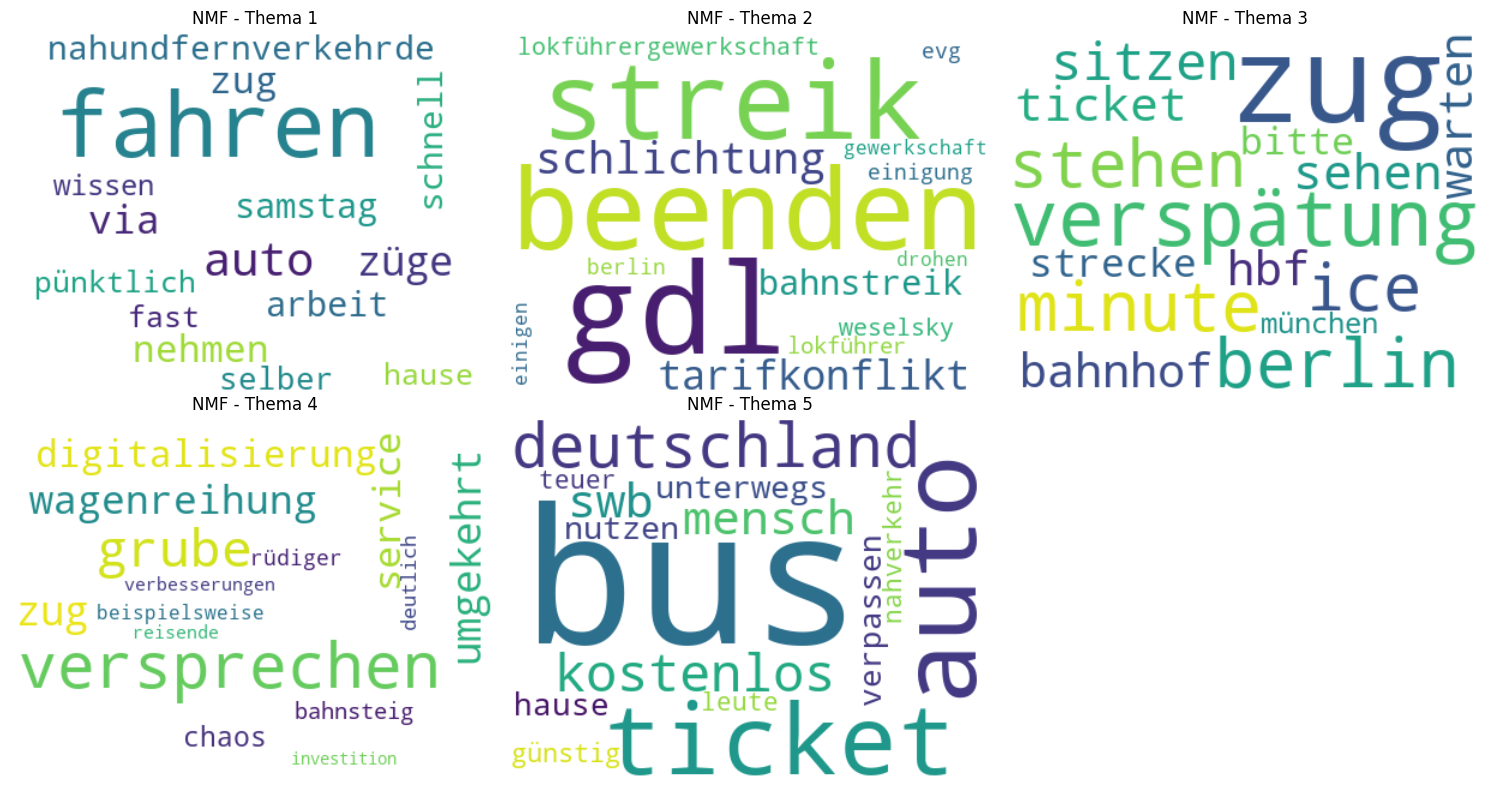
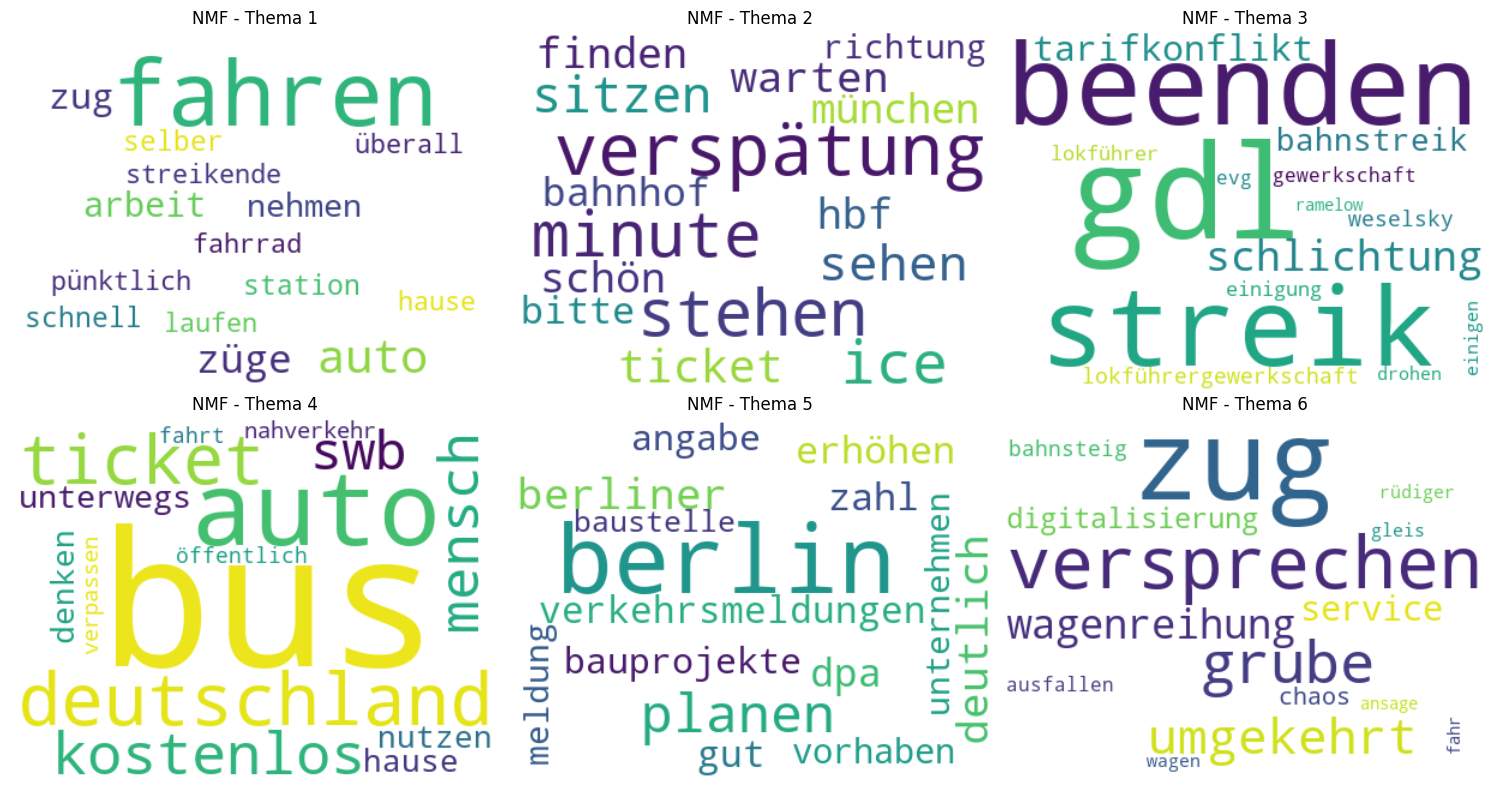
Coherence Plot und Speicherfunktion

Changed region(s): [[0.0, 0.0312, 1.0, 0.9688], [0.0, 0.0312, 0.3067, 0.5], [0.92, 0.5938, 0.9813, 0.625]]

diff --git a/src/find_n_topics.py b/src/find_n_topics.py
@@ -1,4 +1,5 @@
 import matplotlib.pyplot as plt
+import os
 from sklearn.decomposition import NMF
 from gensim.corpora import Dictionary
 from gensim.models import CoherenceModel
@@ -7,11 +8,13 @@ from data_loader import load_data
 from preprocessing import clean_corpus
 from vectorization import build_tfidf
 
+# Ergebnis-Ordner (relativ zum Projekt, funktioniert von jedem cwd aus)
+BASE_DIR = os.path.dirname(os.path.dirname(os.path.abspath(__file__)))
+RESULTS_DIR = os.path.join(BASE_DIR, "results")
 
 
 # Ellbogen Methode - Zeichnet den NMF-Rekonstruktionsfehler für verschiedene Werte der Themenanzahl (k)
 def plot_elbow(tfidf_matrix, k_min=2, k_max=10):
-    """Zeichnet den NMF-Rekonstruktionsfehler für verschiedene Themenzahlen."""
     ks = []
     errors = []
     for k in range(k_min, k_max + 1):
@@ -20,20 +23,20 @@ def plot_elbow(tfidf_matrix, k_min=2, k_max=10):
         ks.append(k)
         errors.append(model.reconstruction_err_)
 
+    plt.figure()
     plt.plot(ks, errors, marker="o")
     plt.xlabel("Anzahl Themen (k)")
     plt.ylabel("Rekonstruktionsfehler (kleiner = besser)")
     plt.title("Ellbogen-Methode (NMF)")
-    plt.savefig("results/ellbogen.png")
-    plt.show()    
+    os.makedirs(RESULTS_DIR, exist_ok=True)
+    plt.savefig(os.path.join(RESULTS_DIR, "ellbogen.png"))
+    plt.show()
 
 
-
+# Berechnet und zeichnet den Kohärenzwert (C_v) bei unterschiedlicher Themenanzahl
 def plot_coherence(docs, tfidf_matrix, vectorizer, k_min=2, k_max=10):
-    """Berechnet den C_v-Coherence-Score von NMF für verschiedene Themenzahlen."""
     words = vectorizer.get_feature_names_out()
 
-    # gensim benötigt die Texte als Token-Listen und ein Wörterbuch
     texts_tokens = []
     for d in docs:
         texts_tokens.append(d.split())
@@ -45,7 +48,6 @@ def plot_coherence(docs, tfidf_matrix, vectorizer, k_min=2, k_max=10):
         model = NMF(n_components=k, init="nndsvda", max_iter=400, random_state=24)
         model.fit(tfidf_matrix)
 
-        # Top-10-Wörter je Thema sammeln
         topics = []
         for topic in model.components_:
             top_words = []
@@ -60,10 +62,19 @@ def plot_coherence(docs, tfidf_matrix, vectorizer, k_min=2, k_max=10):
         scores.append(score)
         print(f"k={k}: Coherence={score:.4f}")
 
+    plt.figure()
+    plt.plot(ks, scores, marker="o", color="#C44E52")
+    plt.xlabel("Anzahl Themen (k)")
+    plt.ylabel("Coherence Score (c_v, höher = besser)")
+    plt.title("Coherence-Score-Methode (NMF)")
+    os.makedirs(RESULTS_DIR, exist_ok=True)
+    plt.savefig(os.path.join(RESULTS_DIR, "coherence.png"))
+    plt.show()
+
 
 if __name__ == "__main__":
-    df = load_data(5000)  
+    df = load_data(5000)
     docs = clean_corpus(df["text"])
     tfidf_matrix, tfidf_vectorizer = build_tfidf(docs)
     plot_elbow(tfidf_matrix)
-    plot_coherence(docs, tfidf_matrix, tfidf_vectorizer)   
+    plot_coherence(docs, tfidf_matrix, tfidf_vectorizer)
